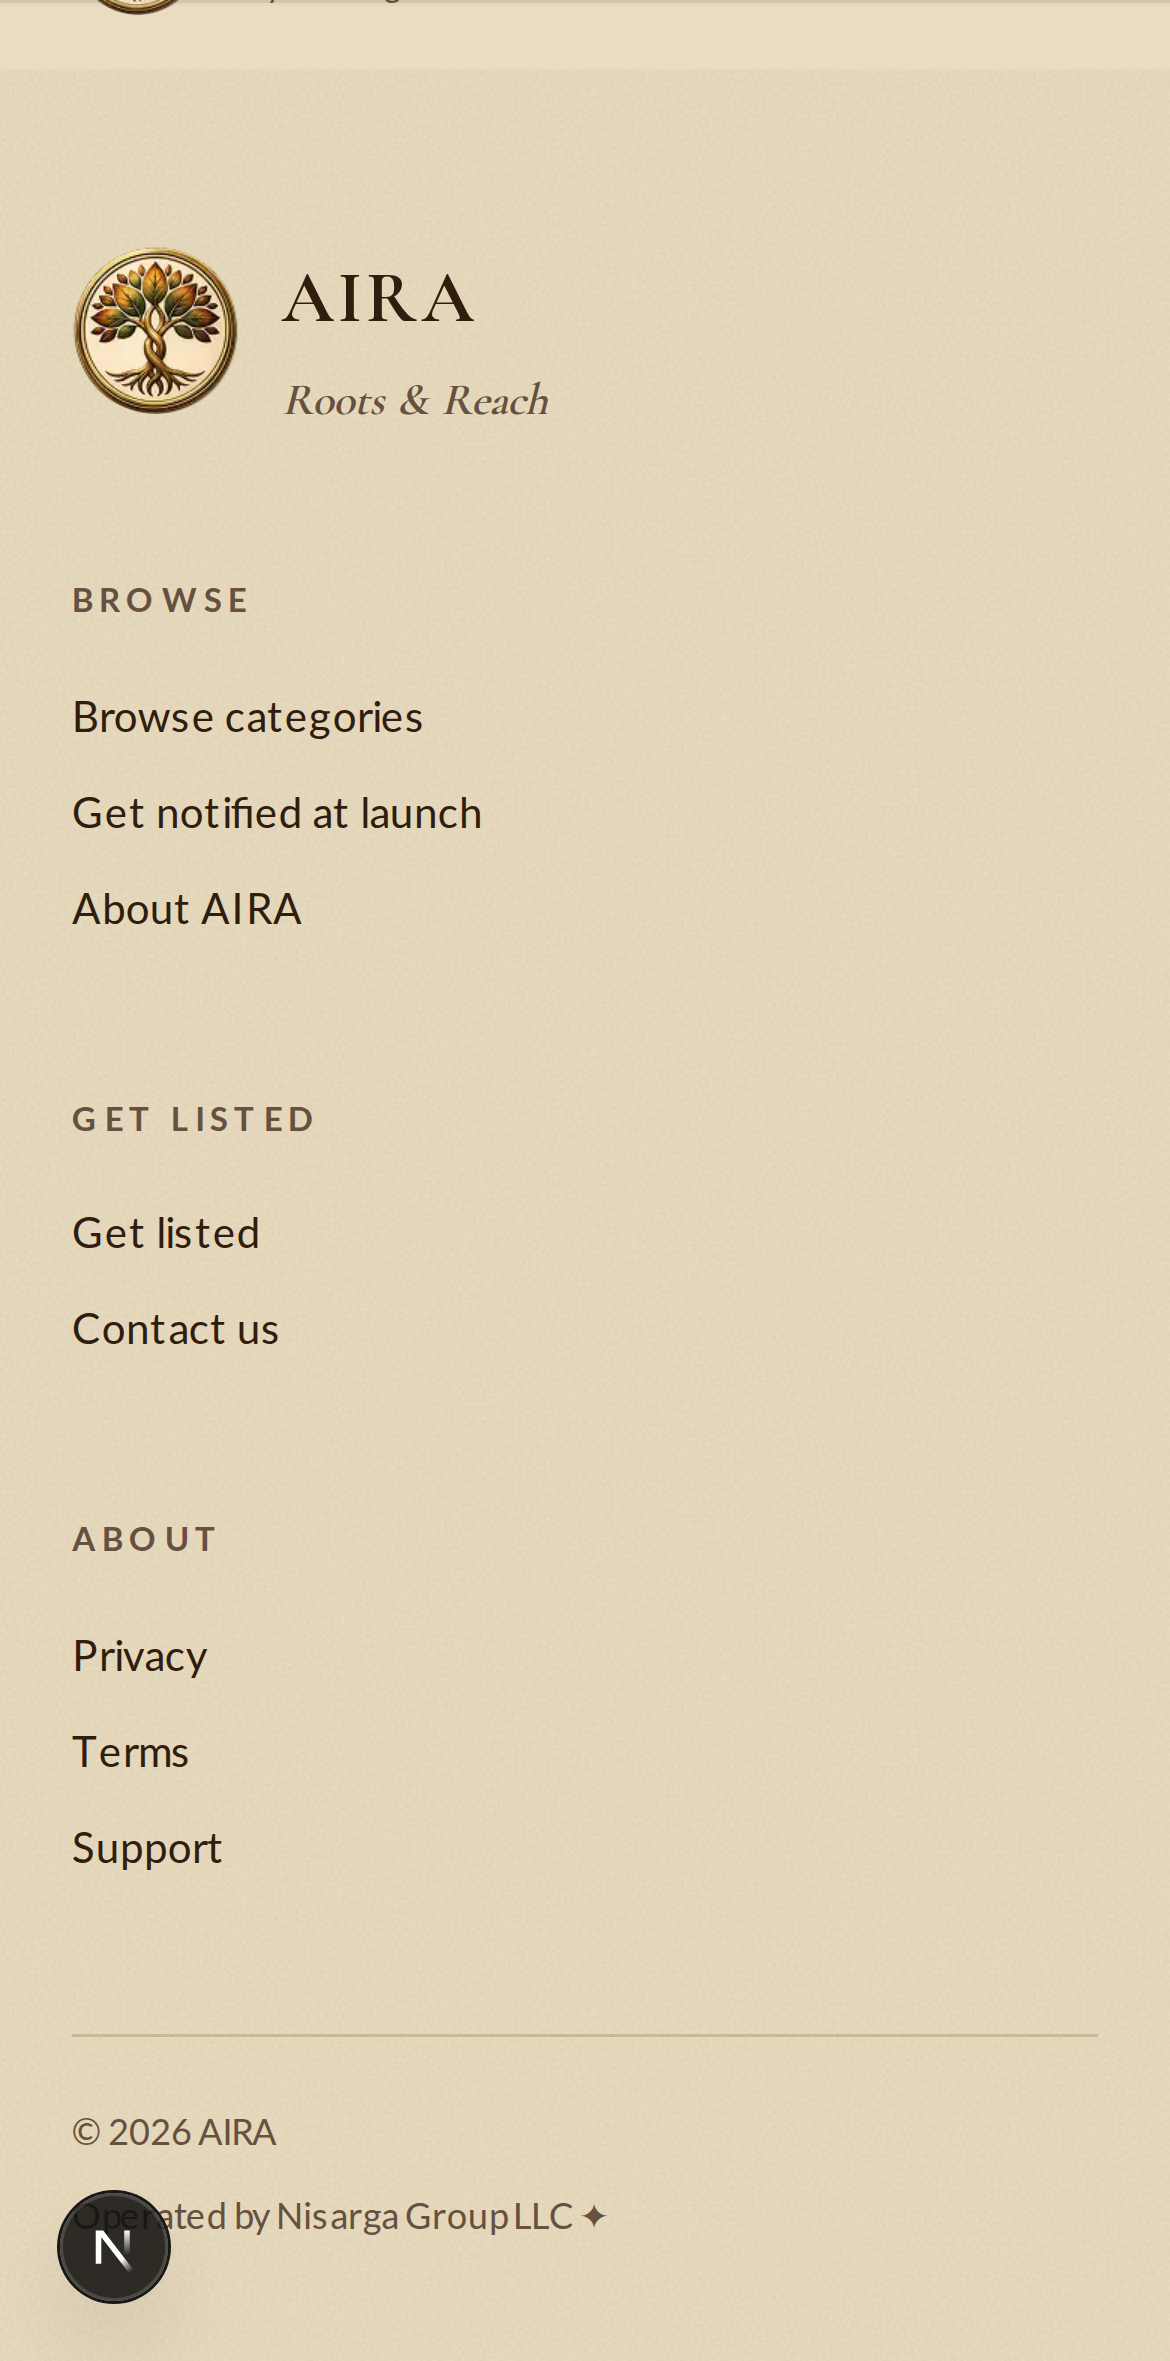
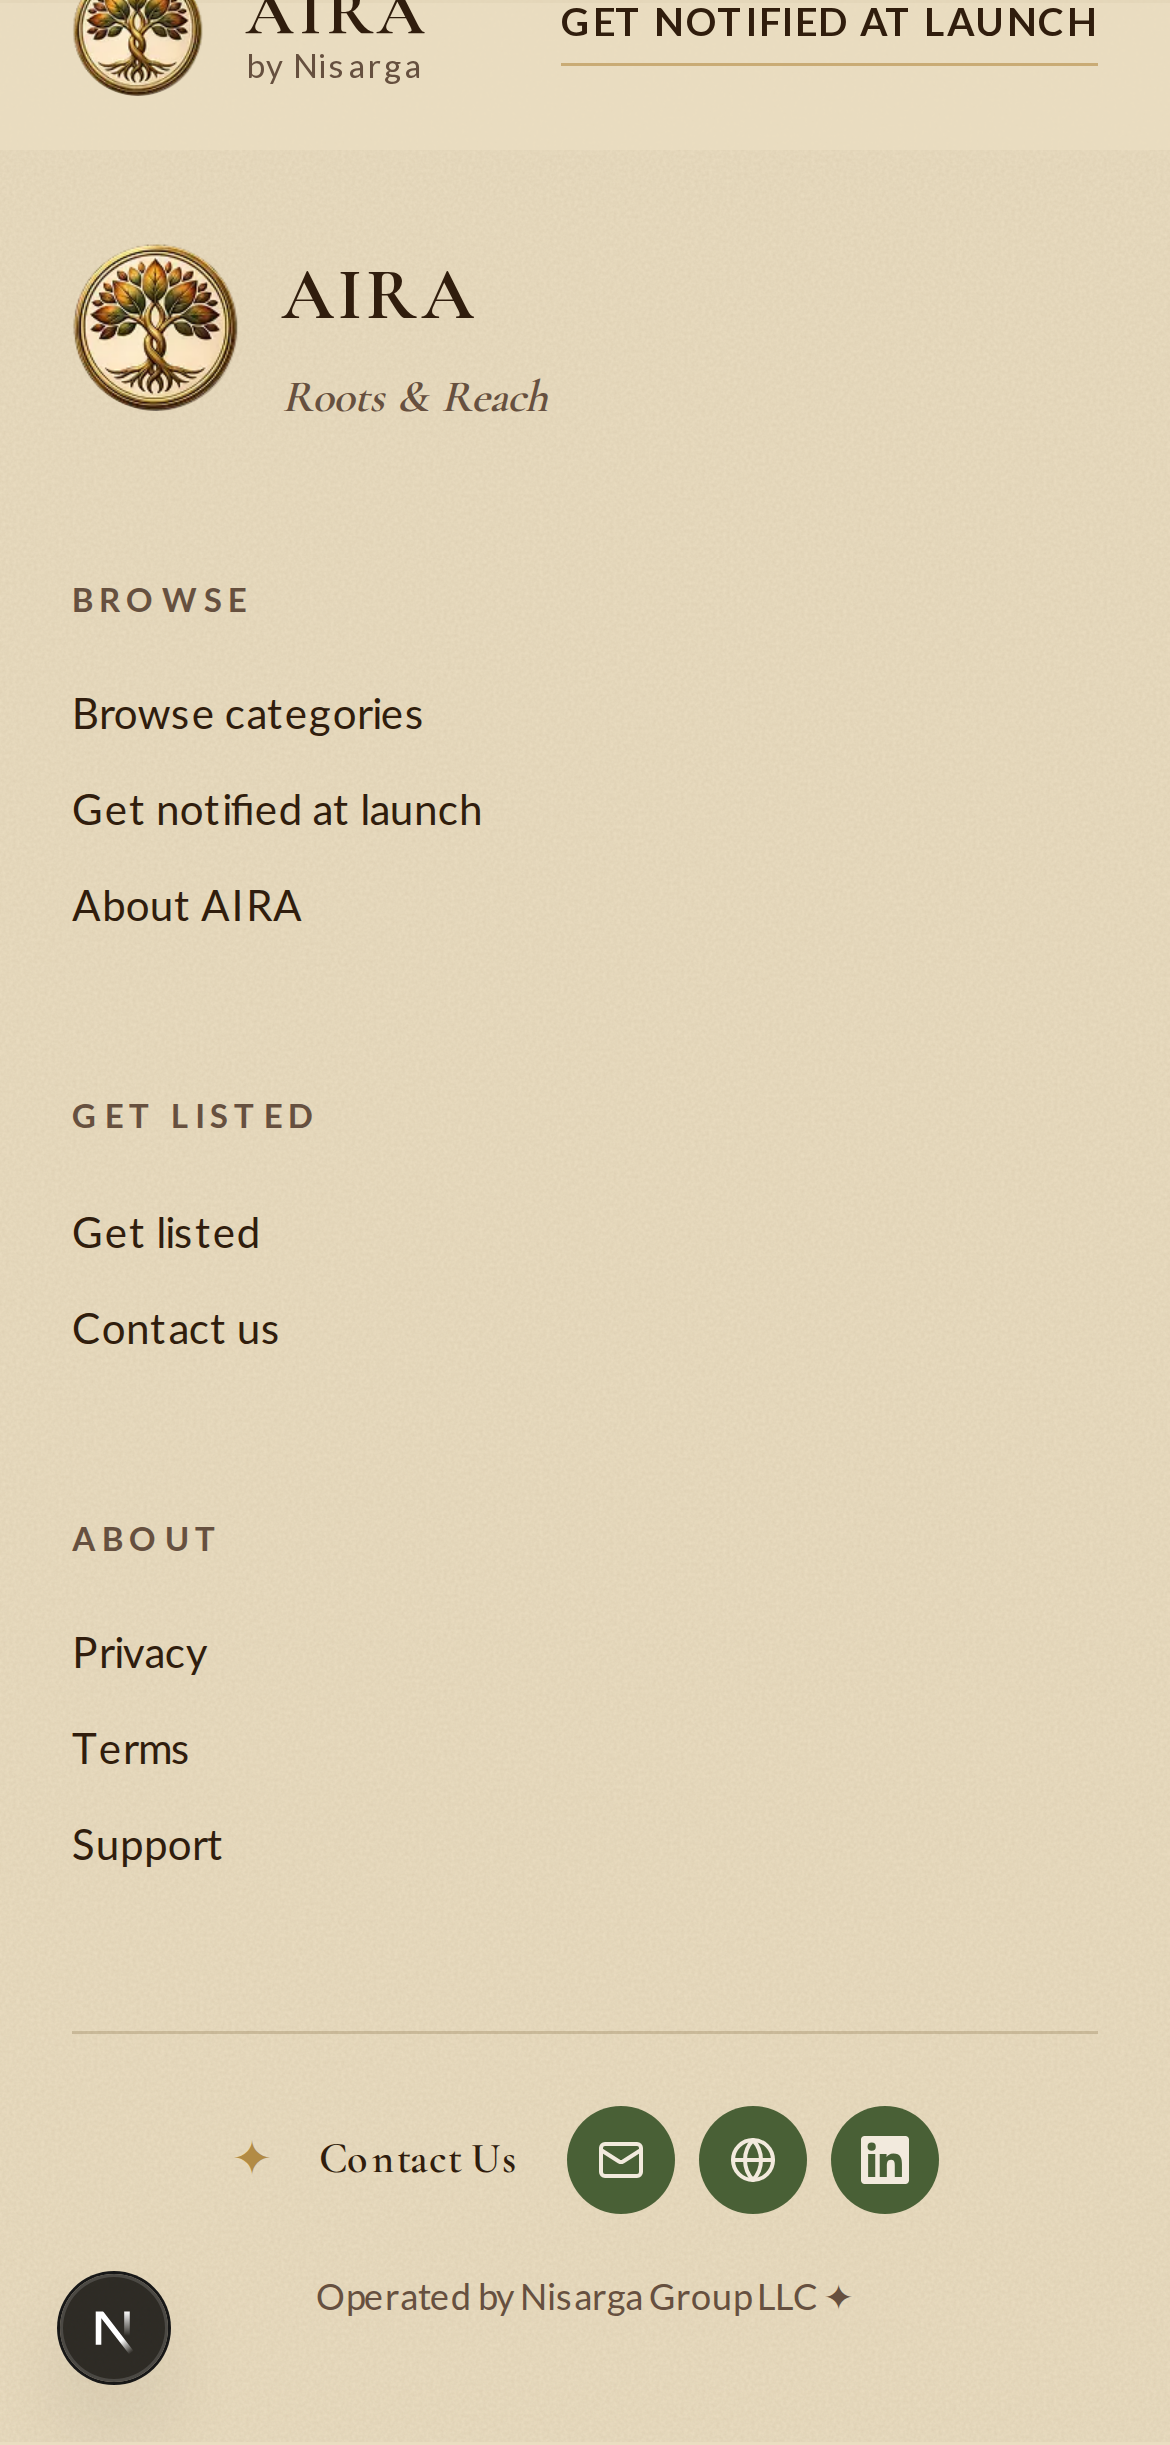
style(marketing): replace footer bottom bar with slim Contact Us strip
Hairline + ✦ ornament + "Contact Us" label + 3 olive-green icon buttons
(Mail / Globe / LinkedIn) + thin divider + Nisarga signature. Mail uses
brand.supportEmail; Globe points to https://nisargagroup.com; LinkedIn
is TODO'd to # until the real URL exists. LinkedIn glyph is inlined SVG
(the project's lucide build doesn't ship brand icons). The 4-column link
block (Browse / Get listed / About + brand block) above stays unchanged.

diff --git a/apps/web/src/components/marketing/marketing-footer.tsx b/apps/web/src/components/marketing/marketing-footer.tsx
@@ -1,13 +1,18 @@
-// AIRA marketing footer. 4-column grid: brand block / For users /
-// For businesses / Legal. Bottom bar shows © + Nisarga signature.
+// AIRA marketing footer. 4-column grid (brand block / Browse / Get listed /
+// About) above a slim contact strip: ✦ ornament + "Contact Us" label +
+// 3 olive-green icon buttons (Mail / Globe / LinkedIn) + Nisarga signature.
 //
 // Branded values come from @aira/config (brand.name, brand.legalEntity,
-// brand.supportEmail). Marketing prose ("Roots & Reach", "For users",
-// etc.) lives inline per the allowlist widened in T9.
+// brand.supportEmail). Marketing prose lives inline per the allowlist in T9.
 
 import Image from "next/image"
 import Link from "next/link"
+import { Globe, Mail } from "lucide-react"
 import { brand } from "@aira/config"
+
+// TODO: replace with the real Nisarga LinkedIn URL once it exists.
+const NISARGA_LINKEDIN_URL = "#"
+const NISARGA_WEBSITE_URL = "https://nisargagroup.com"
 
 const forUsersLinks = [
   { href: "#categories", label: "Browse categories" },
@@ -27,7 +32,6 @@ const legalLinks = [
 ]
 
 export function MarketingFooter() {
-  const year = new Date().getFullYear()
   return (
     <footer className="border-t border-[color:oklch(0.50_0.07_80_/_30%)] px-6 pb-10 pt-20">
       <div className="mx-auto max-w-[1180px]">
@@ -55,14 +59,95 @@ export function MarketingFooter() {
           <FooterColumn title="About" links={legalLinks} />
         </div>
 
-        <div className="flex flex-col items-start justify-between gap-3 border-t border-border/25 pt-6 text-xs text-muted-foreground sm:flex-row sm:items-center">
-          <span>
-            © {year} {brand.name}
-          </span>
-          <span>Operated by {brand.legalEntity} ✦</span>
-        </div>
+        <ContactStrip />
       </div>
     </footer>
+  )
+}
+
+function ContactStrip() {
+  return (
+    <div className="flex flex-col items-center justify-between gap-5 border-t border-border/25 pt-6 text-xs text-muted-foreground sm:flex-row">
+      <div className="flex items-center gap-4">
+        <hr className="hidden h-px w-10 border-0 bg-brand-gold/50 sm:block" />
+        <span aria-hidden="true" className="font-display text-base text-brand-gold">
+          ✦
+        </span>
+        <span className="font-display text-sm tracking-wide text-foreground">
+          Contact Us
+        </span>
+        <ul className="flex items-center gap-2">
+          <li>
+            <ContactIcon
+              href={`mailto:${brand.supportEmail}`}
+              label={`Email ${brand.name}`}
+            >
+              <Mail aria-hidden="true" className="size-4" />
+            </ContactIcon>
+          </li>
+          <li>
+            <ContactIcon
+              href={NISARGA_WEBSITE_URL}
+              label={`${brand.legalEntity} website`}
+              external
+            >
+              <Globe aria-hidden="true" className="size-4" />
+            </ContactIcon>
+          </li>
+          <li>
+            <ContactIcon
+              href={NISARGA_LINKEDIN_URL}
+              label={`${brand.legalEntity} on LinkedIn`}
+              external
+            >
+              <LinkedInGlyph />
+            </ContactIcon>
+          </li>
+        </ul>
+      </div>
+      <div className="flex items-center gap-4">
+        <span aria-hidden="true" className="hidden h-4 w-px bg-border/40 sm:block" />
+        <span>Operated by {brand.legalEntity} ✦</span>
+      </div>
+    </div>
+  )
+}
+
+function LinkedInGlyph() {
+  return (
+    <svg
+      aria-hidden="true"
+      viewBox="0 0 24 24"
+      className="size-4 fill-current"
+    >
+      <path d="M20.45 20.45h-3.55v-5.57c0-1.33-.02-3.04-1.85-3.04-1.85 0-2.13 1.45-2.13 2.94v5.67H9.37V9h3.41v1.56h.05c.47-.9 1.64-1.85 3.37-1.85 3.6 0 4.27 2.37 4.27 5.46v6.28zM5.34 7.43a2.06 2.06 0 1 1 0-4.12 2.06 2.06 0 0 1 0 4.12zM7.12 20.45H3.56V9h3.56v11.45zM22.22 0H1.77C.79 0 0 .77 0 1.72v20.56C0 23.23.79 24 1.77 24h20.45c.98 0 1.78-.77 1.78-1.72V1.72C24 .77 23.2 0 22.22 0z" />
+    </svg>
+  )
+}
+
+function ContactIcon({
+  href,
+  label,
+  external = false,
+  children,
+}: {
+  href: string
+  label: string
+  external?: boolean
+  children: React.ReactNode
+}) {
+  const externalProps = external
+    ? { target: "_blank", rel: "noopener noreferrer" }
+    : {}
+  return (
+    <Link
+      href={href}
+      aria-label={label}
+      {...externalProps}
+      className="flex size-9 items-center justify-center rounded-full bg-primary text-brand-cream-bright no-underline transition-transform hover:-translate-y-px focus-visible:outline-none focus-visible:ring-2 focus-visible:ring-ring focus-visible:ring-offset-2 focus-visible:ring-offset-background"
+    >
+      {children}
+    </Link>
   )
 }
 
